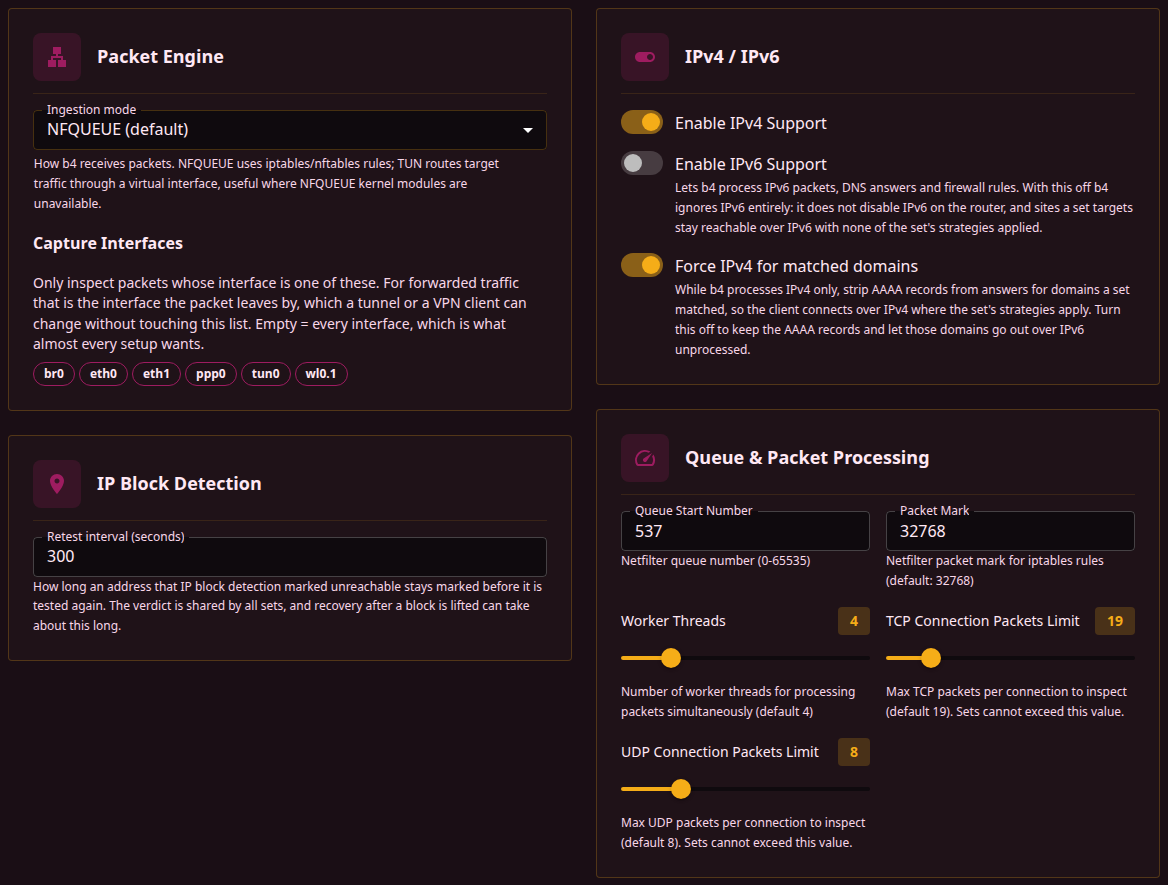
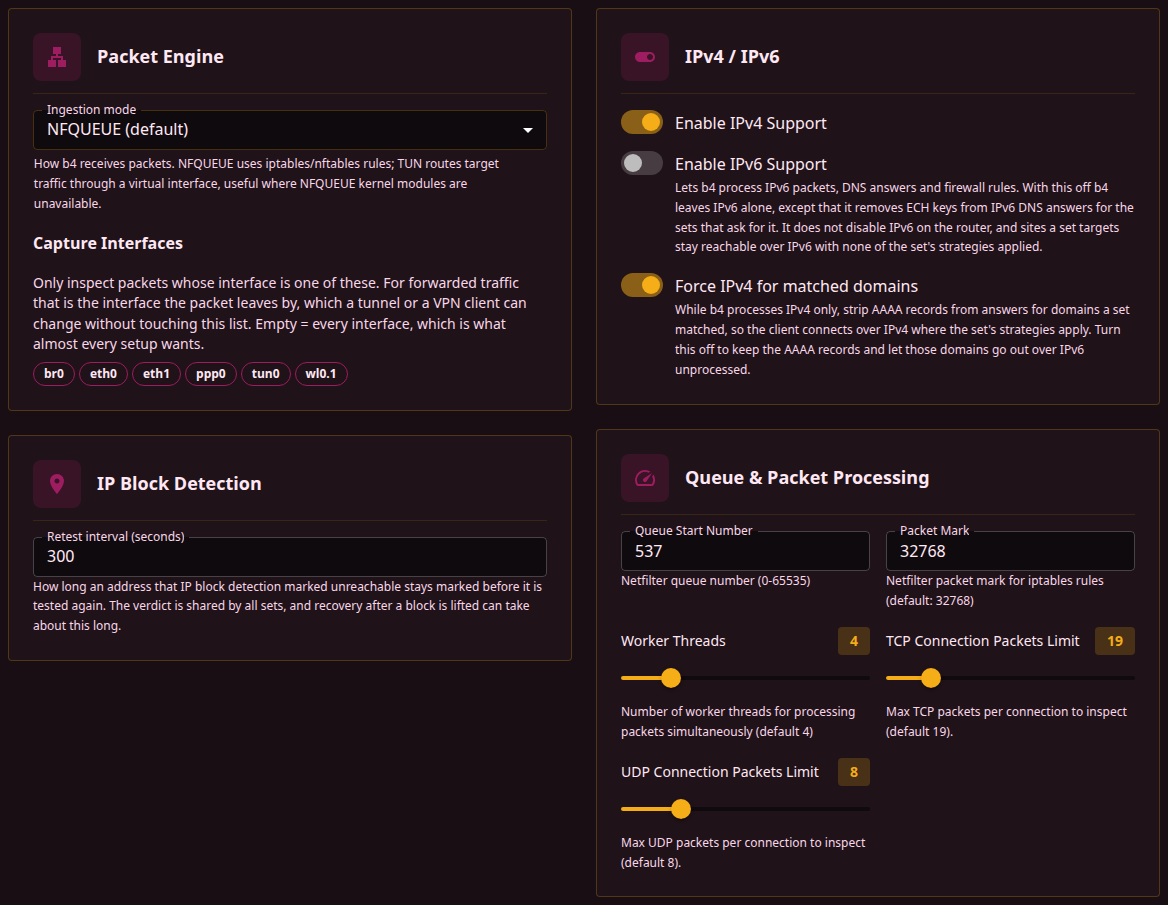
docs: the Calls field, sets for calls and the removed per-set packet limits
The UDP tab pages, the Discord voice guide, the Traffic voice label, import, hub and config references name the Calls field and its options instead of Filter STUN Packets and Protocols; the section keeps its protocol-selection anchor as Sets for calls. Set pages no longer describe a per-set Connection Packets Limit, Settings says the limits apply to every set, and the TCP General and Packet Engine screenshots are re-shot. Release notes for b4 1.88.0 and b4hub 1.5.0 follow.

diff --git a/docs/i18n/ru/docusaurus-plugin-content-docs/current/sets/udp.md b/docs/i18n/ru/docusaurus-plugin-content-docs/current/sets/udp.md
@@ -19,24 +19,39 @@ description: Вкладка UDP редактора сета - с каким тр
 | Поле | Что делает | По умолчанию |
 | --- | --- | --- |
 | **Совпадение QUIC** | **По SNI** - совпадает QUIC, в ClientHello которого есть имя сервера из целей сета, и так же b4 узнаёт адреса этих доменов. **По SNI или по совпавшему назначению** - дополнительно совпадает любой QUIC-пакет к назначению, с которым сет уже совпал по IP или порту, даже без имени сервера. | **По SNI** |
-| **Фильтр портов** | UDP-порты для совпадения, например `5000-6000,8000`, для VoIP, игр и других UDP-приложений. Ограничивает и остальную часть сета: сет с `8443` в этом поле ничего не делает с UDP на порту 443. Пустое поле - любой порт, кроме портов, которые указаны только в сетах с [выбором по протоколу](#protocol-selection). | Пусто |
-| **Фильтровать STUN-пакеты** | Пропускает без изменений STUN-запросы, пакет, который открывает голосовое соединение в приложении Discord, и голосовое аудио приложения: сет их никогда не обрабатывает. Включённый переключатель подходит сетам **Drop** и **Reject**, а сет, фейки которого должны идти перед голосовыми пакетами, вместо этого [выбирает их по протоколу](#protocol-selection). | Вкл. |
-| **Протоколы** | Сет работает только с выбранными пакетами на своих UDP-портах, см. [Выбор пакетов по протоколу](#protocol-selection). **Начало голоса Discord** - пакет, который открывает голосовое соединение в приложении Discord. **STUN** - запрос, который открывает звонок в браузере, в том числе Discord в браузере, и в приложениях на WebRTC. | Пусто |
-| **Лимит пакетов соединения** | Сколько пакетов в начале UDP-потока обрабатывает b4. Не может превышать глобальный лимит в [Настройки > Основные](../settings/core.md#queue-and-packet-processing). | `8` |
+| **Фильтр портов** | UDP-порты для совпадения, например `5000-6000,8000`, для VoIP, игр и других UDP-приложений. Ограничивает и остальную часть сета: сет с `8443` в этом поле ничего не делает с UDP на порту 443. Пустое поле - любой порт, кроме портов, которые указаны только в [сетах для звонков](#protocol-selection). | Пусто |
+| **Звонки** | Как сет обходится со звонками, см. таблицу ниже. | **Пропускать начало звонков** |
+| **Какие звонки** | Появляется при варианте **Обрабатывать только звонки**: какие звонки забирает сет, см. [Сеты для звонков](#protocol-selection). | **Приложение Discord и браузеры** |
+
+| Звонки | Что происходит |
+| --- | --- |
+| **Пропускать начало звонков** | STUN-запросы, с которых начинаются звонки в браузерах и приложениях, и голосовые пакеты приложения Discord проходят без изменений. Остальные пакеты звонка, например аудио и видео в браузере, сет обрабатывает так, как задано в поле **Режим действия**. |
+| **Обрабатывать только звонки** | Сету не задаются цели, и он работает только со звонками, см. [Сеты для звонков](#protocol-selection). В сете с целями этот вариант выбрать нельзя. |
+| **Обрабатывать как остальной UDP** | STUN-запросы и голосовые пакеты приложения Discord сет обрабатывает так же, как остальной свой UDP. В режимах **Drop** и **Reject** он блокирует и звонки. |
 
 Если выбрано **По SNI**, а на вкладке [Цели](./targets.md) нет ни доменов, ни категорий GeoSite, ни один QUIC ClientHello совпасть не может, и вкладка показывает предупреждение. UDP на порт 53 - это DNS, он уходит в [обработку DNS](../dns.md) b4.
 
-### Выбор пакетов по протоколу {#protocol-selection}
+### Сеты для звонков {#protocol-selection}
 
-Поле **Протоколы** включает выбор по протоколу. Если в нём выбрано **Начало голоса Discord**, **STUN** или оба, сет работает только с UDP-пакетами этих видов, которые приходят на порты из поля **Фильтр портов**. Когда сет выбрал пакет, остальная часть этого соединения принадлежит сету: следующие пакеты проходят без изменений или блокируются, если сет блокирует, а фейки уходят только перед первым выбранным пакетом. Остальные пакеты на этих портах достаются другим сетам или проходят без изменений. Сет с пустым UDP-полем **Фильтр портов** эти порты не трогает. Выбранный пакет принадлежит сету, даже если с адресом назначения совпадает другой сет, например сет GeoIP с теми же серверами. То же верно, когда адрес принадлежит домену, который обрабатывает другой сет.
+Если в поле **Звонки** выбрано **Обрабатывать только звонки**, сет применяет свой режим действия, например фейки, только к пакету, который открывает звонок на портах из поля **Фильтр портов**, куда бы звонок ни шёл. Поле **Какие звонки** определяет, какие звонки забирает сет:
 
-У сета с выбором по протоколу три требования. Если одно из них нарушено, b4 отказывается сохранить сет, а предупреждение на вкладке называет причину.
+| Какие звонки | Что забирает сет |
+| --- | --- |
+| **Приложение Discord и браузеры** | Звонки в приложении Discord, в браузерах и в других приложениях, которые начинают звонок со STUN. |
+| **Приложение Discord** | Звонки и голосовые каналы в приложении Discord. |
+| **Браузеры** | Звонки в браузерах, в том числе Discord в браузере, и в других приложениях, которые начинают звонок со STUN. |
+
+Остальная часть звонка, который забрал сет, принадлежит сету: следующие пакеты проходят без изменений или блокируются, если сет блокирует. Фейки уходят только перед пакетом, который открывает звонок. Остальные пакеты на этих портах достаются другим сетам или проходят без изменений. Сет с пустым UDP-полем **Фильтр портов** эти порты не трогает. Звонок, который забрал сет, принадлежит ему, даже если с адресом назначения совпадает другой сет, например сет GeoIP с теми же серверами. То же верно, когда адрес принадлежит домену, который обрабатывает другой сет.
+
+У сета для звонков три требования. Если одно из них нарушено, b4 отказывается сохранить сет, а предупреждение на вкладке называет причину.
 
 - Нет целей: ни доменов, ни IP, ни категорий GeoSite и GeoIP, ни ASN. Устройства-источники допускаются.
-- **Фильтр портов** на этой вкладке перечисляет порты, на которые приходит протокол.
+- **Фильтр портов** на этой вкладке перечисляет порты, на которые приходят звонки. Пока поле пустое, предупреждение предлагает кнопку **Подставить порты Discord**, которая вписывает `19294-19344,50000-50100`.
 - **Фильтр портов** на вкладке [TCP](./tcp/general.md) пуст. Без целей фильтр TCP-портов заставил бы сет работать со всеми TCP-соединениями на этих портах. Вкладка **TCP** тоже показывает предупреждение.
 
-Пока выбор по протоколу включён, **Фильтровать STUN-пакеты** не действует на пакеты, которые выбирает сет, и переключатель неактивен. Блокировка на вкладке [DNS & Маршрутизация](./routing.md) блокирует выбранные сетом пакеты. **Фильтр версии IP** на вкладке [Цели](./targets.md) тоже ограничивает такой сет. При включении выбора по протоколу **Payload фейкового пакета** меняется с **(заполнение нулями)** на **(авто: STUN-запрос)**, а payload, выбранный вручную, остаётся. В некоторых сетях фейки из нулей преждевременно обрывают голосовые звонки Discord. Пошаговая настройка такого сета описана в руководстве [Голосовые звонки Discord](../guides/discord-voice.md).
+Пока выбрано **Обрабатывать только звонки**, вкладка скрывает раздел **Блокировка QUIC** и поле **Совпадение QUIC**. В режимах **Drop** и **Reject**, а также с маршрутизацией **Блокировка (чёрная дыра)** на вкладке [DNS & Маршрутизация](./routing.md) сет блокирует пакет, который открывает каждый звонок, и об этом предупреждает вкладка. **Фильтр версии IP** на вкладке [Цели](./targets.md) тоже ограничивает такой сет.
+
+При выборе **Обрабатывать только звонки** поле **Payload фейкового пакета** меняется с **(заполнение нулями)** или **(авто: QUIC Initial)** на **(авто: STUN-запрос)**, а любой другой payload остаётся. В некоторых сетях фейки из нулей преждевременно обрывают звонки Discord. Если в той же правке выбрать другой вариант, прежний payload возвращается. Если сет без целей перестаёт обрабатывать только звонки, а UDP-фильтр портов у него остаётся, он работает со всем UDP на этих портах, и об этом сообщает подсказка на вкладке. Пошаговая настройка такого сета описана в руководстве [Голосовые звонки Discord](../guides/discord-voice.md).
 
 ## Как обрабатывать совпавший трафик
 

diff --git a/docs/docs/sets/udp.md b/docs/docs/sets/udp.md
@@ -19,24 +19,39 @@ QUIC carries HTTP/3 for YouTube, Google, Discord and other sites. Its packets ar
 | Field | What it does | Default |
 | --- | --- | --- |
 | **QUIC Matching** | **By SNI** matches QUIC whose ClientHello carries a server name the set targets, which is also how b4 learns the addresses of those domains. **By SNI or matched destination** also matches any QUIC packet to a destination the set already matches by IP or port, with no server name needed. | **By SNI** |
-| **Port Filter** | UDP ports to match, such as `5000-6000,8000`, for VoIP, games and other UDP applications. It also limits the rest of the set: a set with `8443` here does not act on UDP port 443. Empty matches any port, except the ports that only a set with [protocol selection](#protocol-selection) lists. | Empty |
-| **Filter STUN Packets** | Lets STUN requests, the packet that opens a voice connection in the Discord app and the app's voice audio through untouched: the set never acts on them. On suits **Drop** and **Reject** sets, and a set whose fakes must go before voice packets [selects them by protocol](#protocol-selection) instead. | On |
-| **Protocols** | The set acts only on the selected packets on its UDP ports, see [Selecting packets by protocol](#protocol-selection). **Discord voice setup** is the packet that opens a voice connection in the Discord app. **STUN** is the request that opens a call in a browser, Discord in a browser included, and in apps built on WebRTC. | Empty |
-| **Connection Packets Limit** | How many packets at the start of a UDP flow b4 processes. It cannot exceed the global limit under [Settings > Core](../settings/core.md#queue-and-packet-processing). | `8` |
+| **Port Filter** | UDP ports to match, such as `5000-6000,8000`, for VoIP, games and other UDP applications. It also limits the rest of the set: a set with `8443` here does not act on UDP port 443. Empty matches any port, except the ports that only a [set for calls](#protocol-selection) lists. | Empty |
+| **Calls** | How the set treats calls, see the table below. | **Pass call setup** |
+| **Which calls** | Shown with **Handle only calls**: the calls the set takes, see [Sets for calls](#protocol-selection). | **Discord app and browsers** |
+
+| Calls | What happens |
+| --- | --- |
+| **Pass call setup** | STUN requests, which start calls in browsers and apps, and the Discord app's voice packets pass unchanged. The set's **Action Mode** still applies to the rest of a call, such as browser audio and video. |
+| **Handle only calls** | The set takes no targets and acts only on calls, see [Sets for calls](#protocol-selection). A set with targets cannot choose it. |
+| **Handle like other UDP** | STUN requests and the Discord app's voice packets get the set's action like the rest of its UDP. With **Drop** or **Reject**, the set blocks calls too. |
 
 With **By SNI** and no domains or GeoSite categories on the [Targets](./targets.md) tab, no QUIC ClientHello can match, and the tab shows a warning. UDP to port 53 is DNS and goes to b4's [DNS handling](../dns.md) instead.
 
-### Selecting packets by protocol {#protocol-selection}
+### Sets for calls {#protocol-selection}
 
-The **Protocols** field turns on protocol selection. With **Discord voice setup**, **STUN** or both selected, the set acts only on UDP packets of those kinds that arrive on the ports in its **Port Filter**. Once the set selects a packet, the rest of that connection belongs to the set: its later packets pass untouched, or are blocked when the set blocks, and fakes go only before the first selected packet. Every other packet on those ports is left to the other sets, or passes untouched. A set with an empty UDP **Port Filter** leaves those ports alone. A packet the set selects belongs to it even when another set matches its destination address, such as a GeoIP set that covers the same servers. The same holds when that address belongs to a domain another set handles.
+With **Calls** on **Handle only calls**, the set applies its **Action Mode**, such as fakes, only to the packet that opens each call on the ports in its **Port Filter**, whatever the address. **Which calls** decides which calls it takes:
 
-A set with protocol selection has three requirements. When it breaks one, b4 refuses to save it, and a warning on the tab names the cause.
+| Which calls | The set takes |
+| --- | --- |
+| **Discord app and browsers** | Calls in the Discord app, in browsers and in other apps that start calls with STUN. |
+| **Discord app** | Calls and voice channels in the Discord app. |
+| **Browsers** | Calls in browsers, Discord in a browser included, and in other apps that start calls with STUN. |
+
+The rest of a call the set takes belongs to the set: its later packets pass untouched, or are blocked when the set blocks. Fakes go only before the packet that opens the call. Every other packet on those ports is left to the other sets, or passes untouched. A set with an empty UDP **Port Filter** leaves those ports alone. A call the set takes belongs to it even when another set matches its destination address, such as a GeoIP set that covers the same servers. The same holds when that address belongs to a domain another set handles.
+
+A set for calls has three requirements. When it breaks one, b4 refuses to save it, and a warning on the tab names the cause.
 
 - No targets: no domains, IPs, GeoSite or GeoIP categories and no ASNs. Source devices are allowed.
-- A **Port Filter** on this tab with the ports the protocol arrives on.
+- A **Port Filter** on this tab with the ports the calls arrive on. While it is empty, the warning offers **Use Discord ports**, which enters `19294-19344,50000-50100`.
 - An empty **Port Filter** on the [TCP](./tcp/general.md) tab. Without targets, a TCP port filter would make the set act on every TCP connection on those ports. The **TCP** tab shows a warning too.
 
-While protocol selection is on, **Filter STUN Packets** has no effect on the packets the set selects, and the switch is shown disabled. Block routing on the [DNS & Routing](./routing.md) tab blocks the packets the set selects. The **IP Version Filter** on the [Targets](./targets.md) tab limits such a set as well. Turning protocol selection on changes **Fake Packet Payload** from **(zero fill)** to **(auto: STUN request)**, and a payload chosen by hand stays. On some networks zero-filled fakes cut Discord voice calls short. [Discord voice calls](../guides/discord-voice.md) sets up such a set step by step.
+While **Handle only calls** is chosen, the tab hides **Blocking QUIC** and **QUIC Matching**. With **Action Mode** on **Drop** or **Reject**, or with **Block (blackhole)** routing on the [DNS & Routing](./routing.md) tab, the set blocks the packet that opens each call, and a warning says so. The **IP Version Filter** on the [Targets](./targets.md) tab limits such a set as well.
+
+Choosing **Handle only calls** changes **Fake Packet Payload** from **(zero fill)** or **(auto: QUIC Initial)** to **(auto: STUN request)**, and any other payload stays. On some networks zero-filled fakes cut Discord calls short. Leaving **Handle only calls** in the same edit restores the previous payload. When a set without targets leaves **Handle only calls** and keeps its UDP **Port Filter**, it acts on all UDP on those ports, and a hint on the tab says so. [Discord voice calls](../guides/discord-voice.md) sets up such a set step by step.
 
 ## How to Handle Matched Traffic
 

diff --git a/changelog_ru.md b/changelog_ru.md
@@ -2,10 +2,11 @@
 
 ## [1.88.0] - 2026-10-21
 
-- ДОБАВЛЕНО: **Сет может работать только с пакетами, которые открывают голосовые звонки Discord, и со STUN-запросами** - новое поле «Протоколы» на вкладке UDP сета предлагает «Начало голоса Discord» и «STUN», а настройку описывает руководство «Голосовые звонки Discord». У такого сета нет целей, он задаёт свои UDP-порты и забирает эти пакеты и остальную часть открытого ими звонка у любого сета, совпавшего по адресу. Если сет отправлял фейки из нулей, при выборе протокола payload фейков меняется на новый «(авто: STUN-запрос)».
-- ДОБАВЛЕНО: **Сеты, выбирающие пакеты голоса Discord и STUN, приходят и из импорта, и из хаба сообщества** - профиль zapret с `--filter-l7=discord,stun`, своими UDP-портами и без списка хостов, например строка Discord из Flowseal, импортируется как такой сет. Хаб принимает такие сеты без целей, а для применения такого сета нужен b4 1.88.0.
-- ИСПРАВЛЕНО: **Страница «Трафик» показывала голосовые и STUN-пакеты как обработанные сетом, который пропустил их без изменений** - с включённым «Фильтровать STUN-пакеты» сет пропускает эти пакеты без изменений, но их строки выглядели так же, как строки пакетов, обработанных сетом.
+- ДОБАВЛЕНО: **Сет может обрабатывать только звонки, например голосовые звонки Discord** - для этого в поле «Звонки» на вкладке UDP сета есть вариант «Обрабатывать только звонки», а поле «Какие звонки» может сузить его до приложения Discord или до браузеров. У такого сета нет целей, и он работает только с пакетом, который открывает звонок на его UDP-портах, а сам звонок забирает у любого другого сета. Настройку описывает руководство «Голосовые звонки Discord», а такие сеты приходят и из импорта, и из хаба сообщества.
+- ИЗМЕНЕНО: **Переключатель «Фильтровать STUN-пакеты» на вкладке UDP сета стал полем «Звонки»** - включённый переключатель стал вариантом «Пропускать начало звонков», а выключенный - вариантом «Обрабатывать как остальной UDP». С вариантом «Пропускать начало звонков» сет пропускает без изменений STUN-запросы и голосовые пакеты приложения Discord. Остальные пакеты звонка, например аудио и видео в браузере, сет по-прежнему обрабатывает по своему режиму действия.
+- ИСПРАВЛЕНО: **Страница «Трафик» показывала STUN-пакеты и голосовые пакеты Discord как обработанные сетом, который пропустил их без изменений** - с включённым «Фильтровать STUN-пакеты» сет пропускал эти пакеты без изменений, но их строки выглядели так же, как строки пакетов, обработанных сетом.
 - ИСПРАВЛЕНО: **Некоторые подсказки редактора сета неверно описывали поведение** - в подсказке к полю «Фильтр портов» на вкладке TCP было сказано, что порт 443 включён всегда, а на вкладке UDP - что пустое поле отключает фильтр. Список ограничивает сет перечисленными портами, а пустое поле означает любой порт. «Метод маскировки» на вкладке UDP утверждал, что «Нет» отправляет фейки как есть, а TTL даёт им истечь, хотя UDP-фейки всегда используют TTL фейка сета.
+- ИСПРАВЛЕНО: **Ползунки «Лимит пакетов соединения» на вкладках TCP и UDP сета ни на что не влияли** - лимит для каждого сета b4 брал из полей «Лимит TCP пакетов соединения» и «Лимит UDP пакетов соединения» в разделе «Настройки», «Основные», «Движок пакетов».
 - ИСПРАВЛЕНО: **Импорт без предупреждения терял фильтр портов или общие домены** - диапазон портов zapret с совпадающими или перевёрнутыми границами, например `3478-3478`, отбрасывался при сохранении сета. Сет, в фильтре портов которого был только этот диапазон, работал на всех портах. Общие домены оставались неиспользованными, если у каждого профиля был свой список хостов.
 - ИСПРАВЛЕНО: **Отклонённая запись через MCP не называла неверную настройку** - в ответе было только «Configuration is invalid».
 - ИСПРАВЛЕНО: **Сет блокировки, ограниченный полем «Исходные интерфейсы», блокировал и другие интерфейсы, и сам роутер** - список учитывала только блокировка по адресу. Блокировка по имени, в DNS-запросах и в соединениях, действовала на все устройства и на собственные соединения роутера. Сет блокировки с целью эскалации к тому же переставал блокировать сайт, когда устройство несколько раз повторяло заблокированное соединение.

diff --git a/docs/docs/advanced/config.md b/docs/docs/advanced/config.md
@@ -111,6 +111,8 @@ The sample shows some of the sections and some of their keys. A real file holds 
 | `udp_conn_bytes_limit` | The same for UDP | `8` |
 | `interfaces` | **Capture Interfaces**, a filter on the interface a packet passes. Empty means all of them | `[]` |
 
+`tcp_conn_bytes_limit` and `udp_conn_bytes_limit` apply to every set. A set's own `tcp.conn_bytes_limit` and `udp.conn_bytes_limit` have no effect, and the web interface has no field for them.
+
 `queue.ipv6` decides whether b4 processes IPv6, not whether the router uses it. Off, the default, b4 processes IPv4 only and writes no IPv6 firewall rules for any set, so a client that reaches a site over IPv6 bypasses the sets. b4 then removes IPv6 addresses from DNS answers for the domains sets match, see [DNS](../dns.md). The exception is NFQUEUE mode while an enabled set has `dns.strip_ech` on. In that mode b4 writes IPv6 rules for DNS answers and DNS over TCP, only to remove their [ECH keys](../dns.md#removing-ech-keys). A change takes full effect after a restart. `--ipv6` sets the same thing for one run.
 
 ## The `sets` section
@@ -121,7 +123,7 @@ Each set is one object in the `sets` array, carrying its whole configuration. It
 - `tcp` - general TCP settings, desync, window, incoming, RST protection
 - `fragmentation` - the fragmentation method and its parameters
 - `faking` - SNI faking, SYN fakes, mutation
-- `udp` - the QUIC filter, the port filter, protocol selection and the UDP action mode
+- `udp` - the QUIC filter, the port filter, the handling of calls and the UDP action mode
 - `dns` - the set's resolver, DoH URL and pins
 - `routing` - routing mode, output interface, upstream proxy or blocking
 - `dscp` - the set's own DSCP value
@@ -139,9 +141,17 @@ The **Import/Export** tab of the set editor shows a set as JSON and takes a past
 
 Each key is stored only while it differs from its default: the switch on with the value `0` is saved as `"dscp": {"enabled": true}`, a value kept with the switch off as `"dscp": {"value": 12}`. While `dscp.enabled` is `true`, a `dscp.value` outside 0-63 is refused, not clamped: the web interface refuses the save, and a file that holds one stops b4 at start. Neither key is writable over MCP or carried in a [shared set](../sets/sharing.md).
 
-### A set's `udp.filter_l7` {#set-udp-filter-l7}
+### A set's calls: `udp.filter_stun` and `udp.filter_l7` {#set-udp-filter-l7}
 
-`udp.filter_l7` lists the protocols selected in **Protocols**: `discord` for **Discord voice setup**, `stun` for **STUN**, see [Selecting packets by protocol](../sets/udp.md#protocol-selection). An empty list is not stored. A set with the list needs a `udp.dport_filter`, no `targets.sni_domains`, `targets.ip`, `targets.geosite_categories`, `targets.geoip_categories` or `targets.asns`, and an empty `tcp.dport_filter`. A set that breaks this is refused: the web interface refuses the save, and a file that holds one stops b4 at start. An unknown entry stays in the list, matches no traffic and is logged as a warning. **(auto: STUN request)** is `"fake_payload_file": "@stun"` under `udp`. `udp.filter_l7` is writable over MCP, with `discord` and `stun` as its only entries, and is carried in a [shared set](../sets/sharing.md).
+**Calls** on a set's UDP tab is stored in two keys, see [Sets for calls](../sets/udp.md#protocol-selection).
+
+| Calls | Stored as |
+| --- | --- |
+| **Pass call setup** | `udp.filter_stun` is `true`, the default |
+| **Handle like other UDP** | `udp.filter_stun` is `false` |
+| **Handle only calls** | `udp.filter_l7` lists the calls of **Which calls**: `["discord", "stun"]` for **Discord app and browsers**, `["discord"]` for **Discord app**, `["stun"]` for **Browsers** |
+
+A non-empty `udp.filter_l7` means **Handle only calls** whatever `udp.filter_stun` holds, and `udp.filter_stun` then has no effect. An empty list is not stored. A set with the list needs a `udp.dport_filter`, no `targets.sni_domains`, `targets.ip`, `targets.geosite_categories`, `targets.geoip_categories` or `targets.asns`, and an empty `tcp.dport_filter`. A set that breaks this is refused: the web interface refuses the save, and a file that holds one stops b4 at start. An `escalate.to` that names a set with the list is cleared, with a warning in the log. An unknown entry stays in the list, matches no traffic and is logged as a warning. **(auto: STUN request)** is `"fake_payload_file": "@stun"` under `udp`. `udp.filter_l7` is writable over MCP, with `discord` and `stun` as its only entries, and is carried in a [shared set](../sets/sharing.md).
 
 ## Settings and their configuration paths {#settings-and-their-configuration-paths}
 
@@ -306,7 +316,8 @@ The AI API key is not part of this file. b4 keeps it in `ai_secrets.json`.
 | TCP > Faking | **Generated Payload** | `faking.payload_file`, a path such as `captures/tls_youtube_com.bin` |
 | UDP | **QUIC Matching** | `udp.filter_quic` |
 | UDP | **Port Filter** | `udp.dport_filter` |
-| UDP | **Protocols** | `udp.filter_l7`, `discord` for **Discord voice setup**, `stun` for **STUN** |
+| UDP | **Calls** | `udp.filter_stun`, `true` for **Pass call setup** and `false` for **Handle like other UDP**. **Handle only calls** is a non-empty `udp.filter_l7`, see [A set's calls](#set-udp-filter-l7) |
+| UDP | **Which calls** | `udp.filter_l7`, `discord` and `stun` for **Discord app and browsers**, `discord` for **Discord app**, `stun` for **Browsers** |
 | UDP | **Action Mode** | `udp.mode` |
 | UDP | **Fake Packet Payload** | `udp.fake_payload_file`, `@stun` for **(auto: STUN request)** |
 | DNS & Routing | **Enable DNS Redirect** | `dns.enabled` |

diff --git a/docs/i18n/ru/docusaurus-plugin-content-docs/current/community/publishing.md b/docs/i18n/ru/docusaurus-plugin-content-docs/current/community/publishing.md
@@ -10,7 +10,7 @@ description: Как поделиться сетом с другими польз
 
 - Хаб сообщества включён, см. [Включение](./index.md#включение).
 - Сет сохранён. Несохранённые изменения не публикуются.
-- Сет проверен на тех целях, которые в нём перечислены. Домен, на котором сет ни разу не пробовали, собирает отчёты **Не работает**. У сета с выбором UDP-пакетов по протоколу целей нет, его проверяют звонком через него.
+- Сет проверен на тех целях, которые в нём перечислены. Домен, на котором сет ни разу не пробовали, собирает отчёты **Не работает**. У сета, который обрабатывает только звонки, целей нет, его проверяют звонком через него.
 
 ## Настройка
 
@@ -25,7 +25,7 @@ description: Как поделиться сетом с другими польз
 
 **Подготовить общий сет** показывает, что будет отправлено. **Проверьте перед отправкой** перечисляет то, на что стоит посмотреть ещё раз, например домены, похожие на внутренние для этой сети, или пины, которые будут использовать все импортировавшие сет. **Не вошло в общий сет** перечисляет каждую отброшенную настройку с причиной. Маршрутизация в прокси или интерфейс, фильтры устройств, эскалация и адрес DNS-сервера отбрасываются всегда, см. [Что покидает роутер](../sets/sharing.md#что-покидает-роутер). JSON ниже с кнопками **Копировать** и **Скачать** позволяет передать сет [напрямую](../sets/sharing.md).
 
-Сет без целей хаб отклоняет, кроме сета с [выбором UDP-пакетов по протоколу](../sets/udp.md#protocol-selection). Такой сет публикуется со своими протоколами и UDP-портами.
+Сет без целей хаб отклоняет, кроме [сета для звонков](../sets/udp.md#protocol-selection). Такой сет публикуется с выбором в поле **Какие звонки** и своими UDP-портами.
 
 Название публикации - имя сета. Описания роутер не отправляет, его может добавить модератор на хабе.
 
@@ -41,7 +41,7 @@ description: Как поделиться сетом с другими польз
 
 Публикация, у которой стратегия и цели совпадают с версией, уже имеющейся у хаба, не сохраняется. Хаб называет этот сет и засчитывает отправку как отчёт **Работает** для него.
 
-У сета с выбором UDP-пакетов по протоколу выбранные протоколы и UDP-порты считаются его целями, и для новых версий, и для дубликатов.
+У сета для звонков выбор в поле **Какие звонки** и UDP-порты считаются его целями, и для новых версий, и для дубликатов.
 
 ## Авторский ключ
 
@@ -59,4 +59,4 @@ description: Как поделиться сетом с другими польз
 | Сообщение | Значение |
 | --- | --- |
 | **Связан с сетом сообщества ..., публиковать нечего.** | Сет связан с сетом на хабе, и его стратегия с тех пор не менялась. |
-| **Хаб отклонил сет: ...** | Причина указана в сообщении, например сет без целей и без выбора UDP-пакетов по протоколу или суточный лимит, см. [Ограничения](./feedback.md#ограничения). |
+| **Хаб отклонил сет: ...** | Причина указана в сообщении, например сет без целей, который не обрабатывает только звонки, или суточный лимит, см. [Ограничения](./feedback.md#ограничения). |

diff --git a/docs/docs/guides/discord-voice.md b/docs/docs/guides/discord-voice.md
@@ -5,7 +5,7 @@ description: A set that sends fakes before the packets that open a Discord voice
 
 The setup adds a set that sends fakes before the UDP packets that open a Discord voice call. It is needed when a call sends its voice packets but gets no answer, or drops after a few seconds, while the rest of Discord works. A call that hangs at **RTC Connecting** fails on TCP instead, see [When it does not work](#when-it-does-not-work).
 
-The address of a voice server is not known in advance. The set therefore has no targets and selects packets by port and by protocol, see [Selecting packets by protocol](../sets/udp.md#protocol-selection). Once it selects the packet that opens a call, the rest of that call belongs to the set and passes untouched, whatever other sets match its address.
+The address of a voice server is not known in advance. The set therefore has no targets and handles only calls on the voice ports, see [Sets for calls](../sets/udp.md#protocol-selection). Once it takes the packet that opens a call, the rest of that call belongs to the set and passes untouched, whatever other sets match its address.
 
 ## Requirements
 
@@ -17,8 +17,8 @@ The address of a voice server is not known in advance. The set therefore has no 
 1. Open **Sets** and click **Create Set**.
 2. Enter a name for the set, such as `Discord voice`.
 3. Leave the **Targets** tab empty.
-4. On the **UDP** tab, enter `19294-19344,50000-50100` in **Port Filter**.
-5. In **Protocols**, select **Discord voice setup** and **STUN**.
+4. On the **UDP** tab, in **Calls**, select **Handle only calls**. **Which calls** stays at **Discord app and browsers**, and a warning asks for a port filter.
+5. Click **Use Discord ports** in the warning, or enter `19294-19344,50000-50100` in **Port Filter**.
 6. Leave **Action Mode** at **Fake & Fragment**. **Fake Packet Payload** now shows **(auto: STUN request)**.
 7. On the **TCP** tab, leave **Port Filter** under **General** empty.
 8. Click **Create Set**.
@@ -28,7 +28,7 @@ The address of a voice server is not known in advance. The set therefore has no 
 | `19294-19344` | Discord's voice servers on Cloudflare |
 | `50000-50100` | The other voice servers, for example in Finland |
 
-**Discord voice setup** selects the packet that opens a voice connection in the Discord app. **STUN** selects the request that opens a call in a browser, Discord in a browser included. **Fake Packet Count** and **Fake Packet Size** keep their defaults.
+With **Discord app and browsers**, the set takes calls and voice channels in the Discord app, and calls in a browser, Discord in a browser included. **Fake Packet Count** and **Fake Packet Size** keep their defaults.
 
 ### Importing the set {#import}
 
@@ -104,7 +104,7 @@ On some networks no strategy opens the voice server's port when it is not 443. T
 
 **b4 refuses to save the voice set.** A warning on the **UDP** tab names the cause: the set has targets, its **Port Filter** is empty, or the **TCP** tab lists ports. The set saves with no targets, both port ranges in the UDP **Port Filter** and an empty TCP **Port Filter**.
 
-**No packet to the voice ports shows the voice set.** The voice set selected neither the packet that opens the call nor the STUN requests. Their port is missing from its **Port Filter**, that kind of packet is not selected in **Protocols**, or the set is turned off on the **Sets** page. The **IP Version Filter** on the set's **Targets** tab can also exclude one IP version.
+**No packet to the voice ports shows the voice set.** The voice set took neither the packet that opens the call nor the STUN requests. Their port is missing from its **Port Filter**, **Which calls** leaves that kind of call out, or the set is turned off on the **Sets** page. The **IP Version Filter** on the set's **Targets** tab can also exclude one IP version.
 
 **No packets to the voice ports appear.** **All packets** is off, or the port is missing from the voice set's **Port Filter**: b4 sees UDP only on port 443 and on the ports that sets list. With **Enable IPv6 Support** off under [Settings > Core](../settings/core.md#protocols), b4 sees no IPv6 packets at all.
 

diff --git a/docs/docs/sets/import.md b/docs/docs/sets/import.md
@@ -43,10 +43,10 @@ A configuration file is read the way its launch script reads it, so the sets fol
 
 ## Domains {#domains}
 
-A b4 set acts only on its [targets](./targets.md). A byedpi command line usually has no host list, and a zapret one points at a file on its machine, so the import asks for domains per set. A set left without targets is created disabled, unless it selects UDP packets by protocol.
+A b4 set acts only on its [targets](./targets.md). A byedpi command line usually has no host list, and a zapret one points at a file on its machine, so the import asks for domains per set. A set left without targets is created disabled, unless it handles only calls.
 
 - **A fallback set gets no domain field.** It is reached through escalation from the set before it, and the same domains would make it compete with that set.
-- **A set that selects Discord or STUN packets gets no domain field either.** Such a set comes from a zapret profile with `--filter-l7` naming `discord` or `stun`. The profile covers UDP only and has no host list or ipset of its own. The set gets **(auto: STUN request)** as its fake payload. With a `--filter-udp` port list, it [selects UDP packets by protocol](./udp.md#protocol-selection) and is created enabled when the profile sends fakes. Without a UDP port list, it is created disabled and without protocol selection. Its report row says to add the ports, select the protocols in **Protocols** and enable the set. The Discord line `--filter-udp=19294-19344,50000-50100 --filter-l7=discord,stun --dpi-desync=fake` becomes the voice set of [Discord voice calls](../guides/discord-voice.md).
+- **A set for calls gets no domain field either.** Such a set comes from a zapret profile with `--filter-l7` naming `discord` or `stun`. The profile covers UDP only and has no host list or ipset of its own. The set gets **(auto: STUN request)** as its fake payload. With a `--filter-udp` port list, it [handles only calls](./udp.md#protocol-selection) and is created enabled when the profile sends fakes. Without a UDP port list, it is created disabled, with **Calls** on **Pass call setup**. Its report row says to add the ports, choose **Handle only calls** in **Calls** and enable the set. The Discord line `--filter-udp=19294-19344,50000-50100 --filter-l7=discord,stun --dpi-desync=fake` becomes the voice set of [Discord voice calls](../guides/discord-voice.md).
 - **Only one set acts on a domain.** Profiles that share a host list and differ only by port become sets that are created disabled and named in the report. Each needs its own domains, or it can be deleted.
 - **A host list file** (`--hostlist=...`, `-H ...`) is named next to the domain field of its set. Its contents are copied from the other machine and pasted there.
 - **A fake payload file** (`--dpi-desync-fake-tls=/opt/.../tls_clienthello.bin`) is replaced by a built-in payload. The original can be uploaded under [Settings > Payloads](../settings/payloads.md). An all-zero hex pattern becomes b4's all-zero payload.
@@ -70,7 +70,7 @@ These do not carry over:
 - **Automatic TTL** (`--dpi-desync-autottl`, byedpi's hop count probing). b4 sends fakes with a fixed TTL, taken from `--dpi-desync-ttl` when the source has one.
 - **Changes to plain HTTP** (`--hostcase`, `--domcase`, byedpi's `--mod-http`).
 - **Exclusion lists** (`--hostlist-exclude`, `--ipset-exclude`). b4 has no exclusion list, so those entries are kept out of the set targets by hand.
-- **Packet ranges** (`--dpi-desync-start`, `--dpi-desync-cutoff`, byedpi's `--round`). b4 has a per-connection packet limit on the [General](./tcp/general.md) sub-tab.
+- **Packet ranges** (`--dpi-desync-start`, `--dpi-desync-cutoff`, byedpi's `--round`). b4 has the same packet limits for every set, **TCP Connection Packets Limit** and **UDP Connection Packets Limit** under [Settings > Core](../settings/core.md#queue-and-packet-processing).
 - **Negated port filters** (`--filter-tcp=~80`). A b4 port filter lists the ports to act on.
 - **Proxy settings** of byedpi, which is a SOCKS5 proxy: its listening address, buffers and connection limits.
 

diff --git a/docs/i18n/ru/docusaurus-plugin-content-docs/current/community/applying.md b/docs/i18n/ru/docusaurus-plugin-content-docs/current/community/applying.md
@@ -22,7 +22,7 @@ description: Как сделать из опубликованного сета 
 
 - Сет проходит проверки [общего сета](../sets/sharing.md#что-проверяет-импорт), вставленного в **Импорт**. Неизвестные настройки отбрасываются, недопустимые для этой версии b4 значения заменяются значениями по умолчанию, небезопасные пины и DNS-перенаправления отбрасываются.
 - Файлы payload устанавливаются и появляются в **Настройки > Пэйлоады**.
-- Категории geosite и geoip, которых нет в базах этого роутера, перечисляются. Без базы категории убираются. Сет, у которого не осталось целей, отклоняется, если только он не [выбирает UDP-пакеты по протоколу](../sets/udp.md#protocol-selection).
+- Категории geosite и geoip, которых нет в базах этого роутера, перечисляются. Без базы категории убираются. Сет, у которого не осталось целей, отклоняется, если это не [сет для звонков](../sets/udp.md#protocol-selection).
 - Сет создаётся включённым, первым на странице **Сеты**, с названием из публикации.
 - Домены сета убираются из всех остальных включённых сетов, где они были.
 
@@ -36,7 +36,7 @@ description: Как сделать из опубликованного сета 
 
 Правка стратегии меняет метку на **Применён, изменён**, а метку на карточке сета - на **Сет сообщества, изменён**. Стратегия здесь - это настройки TCP, UDP, фрагментации, фейковых пакетов, MSS clamp и DNS-перенаправления. На изменённом сете кнопки **Работает** и **Не работает** недоступны.
 
-Цели, фильтры портов, пины, имя, маршрутизация и фильтры устройств в стратегию не входят. Сет сообщества можно сузить до нескольких доменов или направить через прокси, и он остаётся связанным и неизменённым. [Выбор по протоколу](../sets/udp.md#protocol-selection) на вкладке UDP входит в стратегию: если изменить выбор в поле **Протоколы**, метка меняется на **Применён, изменён**.
+Цели, фильтры портов, пины, имя, маршрутизация и фильтры устройств в стратегию не входят. Сет сообщества можно сузить до нескольких доменов или направить через прокси, и он остаётся связанным и неизменённым. Поля **Звонки** и **Какие звонки** на вкладке UDP входят в стратегию, см. [Сеты для звонков](../sets/udp.md#protocol-selection): если изменить любое из них, метка меняется на **Применён, изменён**.
 
 ## Обновление и повторное применение
 

diff --git a/changelog.md b/changelog.md
@@ -2,10 +2,11 @@
 
 ## [1.88.0] - 2026-10-21
 
-- ADDED: **A set can act only on the packets that open Discord voice calls and on STUN requests** - the new Protocols field on the set's UDP tab offers Discord voice setup and STUN, and the guide Discord voice calls describes the setup. Such a set has no targets, lists its UDP ports and takes these packets, and the rest of each call they open, from any set that matches their address. In a set that sends zero-filled fakes, choosing a protocol switches the fake payload to the new (auto: STUN request).
-- ADDED: **Sets that select Discord voice and STUN packets also come from the import tool and the Community Hub** - a zapret profile with `--filter-l7=discord,stun`, its own UDP ports and no host list, such as Flowseal's Discord line, imports as such a set. The hub accepts these sets without targets, and applying one needs b4 1.88.0.
-- FIXED: **The Traffic page showed voice and STUN packets as handled by a set that let them through** - with Filter STUN Packets on, a set passes these packets through unchanged, yet their rows looked the same as rows of packets the set had handled.
+- ADDED: **A set can handle only calls, such as Discord voice calls** - the option is Handle only calls in the Calls field on a set's UDP tab, and Which calls can narrow it to the Discord app or to browsers. Such a set has no targets and acts only on the packet that opens each call on its UDP ports, taking the call from any other set. The guide Discord voice calls describes the setup, and such sets also come from the import tool or the Community Hub.
+- CHANGED: **Filter STUN Packets on a set's UDP tab became the Calls field** - on became Pass call setup, and off became Handle like other UDP. With Pass call setup, the set lets STUN requests and the Discord app's voice packets through unchanged. The rest of a call, such as browser audio and video, still gets the set's Action Mode.
+- FIXED: **The Traffic page showed STUN and Discord voice packets as handled by a set that let them through** - with Filter STUN Packets on, a set passed these packets through unchanged, yet their rows looked the same as rows of packets the set had handled.
 - FIXED: **Some set editor help texts described the wrong behaviour** - the TCP Port Filter said port 443 is always included, and the UDP Port Filter said an empty field turns it off. A list limits the set to the ports listed, and an empty field means every port. The UDP Evasion Technique said None sends fakes unchanged and TTL lets them expire, while UDP fakes always use the set's Fake TTL.
+- FIXED: **The Connection Packets Limit sliders on a set's TCP and UDP tabs had no effect** - b4 took the limit for every set from TCP Connection Packets Limit and UDP Connection Packets Limit under Settings, Core, Packet Engine.
 - FIXED: **The import tool lost a port filter or the shared domains without a warning** - a zapret port range with equal or reversed ends, such as `3478-3478`, was dropped when the set was saved. A set whose port filter held only that range acted on every port. Shared domains went unused when every profile had a host list of its own.
 - FIXED: **A refused MCP write did not say which setting was wrong** - the answer read only "Configuration is invalid".
 - FIXED: **A block set limited to Source Interfaces also blocked other interfaces and the router itself** - only blocking by address followed the list. Blocking by name, in DNS lookups and in connections, applied to every device and to the router's own connections. A block set with an escalation target also stopped blocking a site once a device retried a blocked connection a few times.
